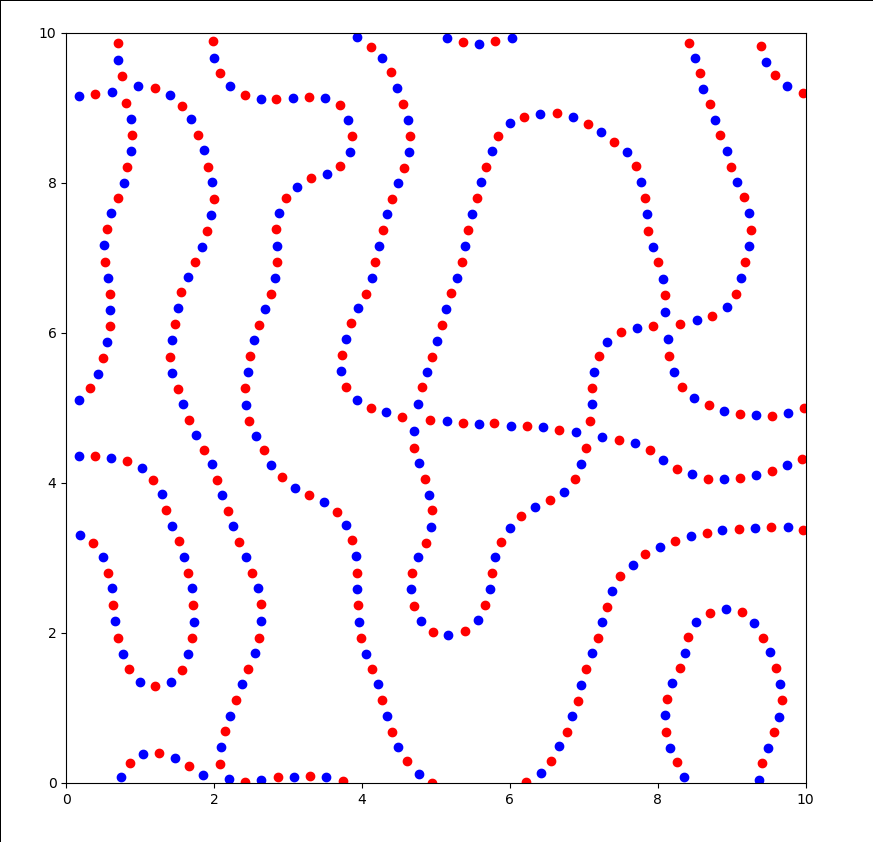
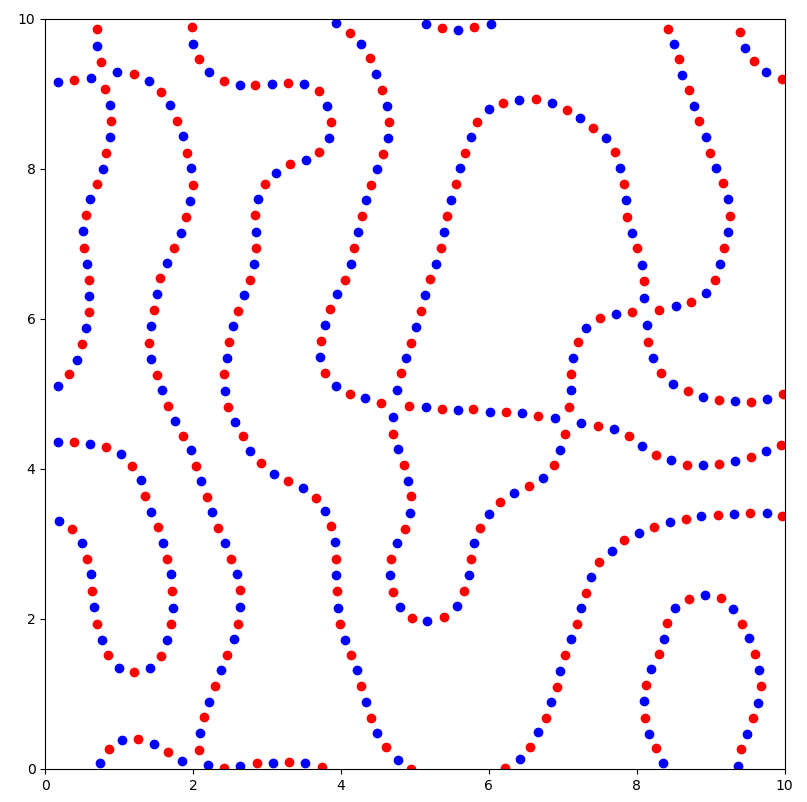
imagee size

diff --git a/README.md b/README.md
@@ -11,11 +11,11 @@ Entrypoints:
  - `c-non [particles=99]`
  - `c-profile`: run callgrind and produce graph
  
-<img src=charge.png style="width: 5cm">
+<img src=charge.png width=500>
 
 # Ising
 
 Pure OpenGL ising model.
 Contains error.
 
-<img src=ising.png style="width: 5cm">
+<img src=ising.png width=500>
